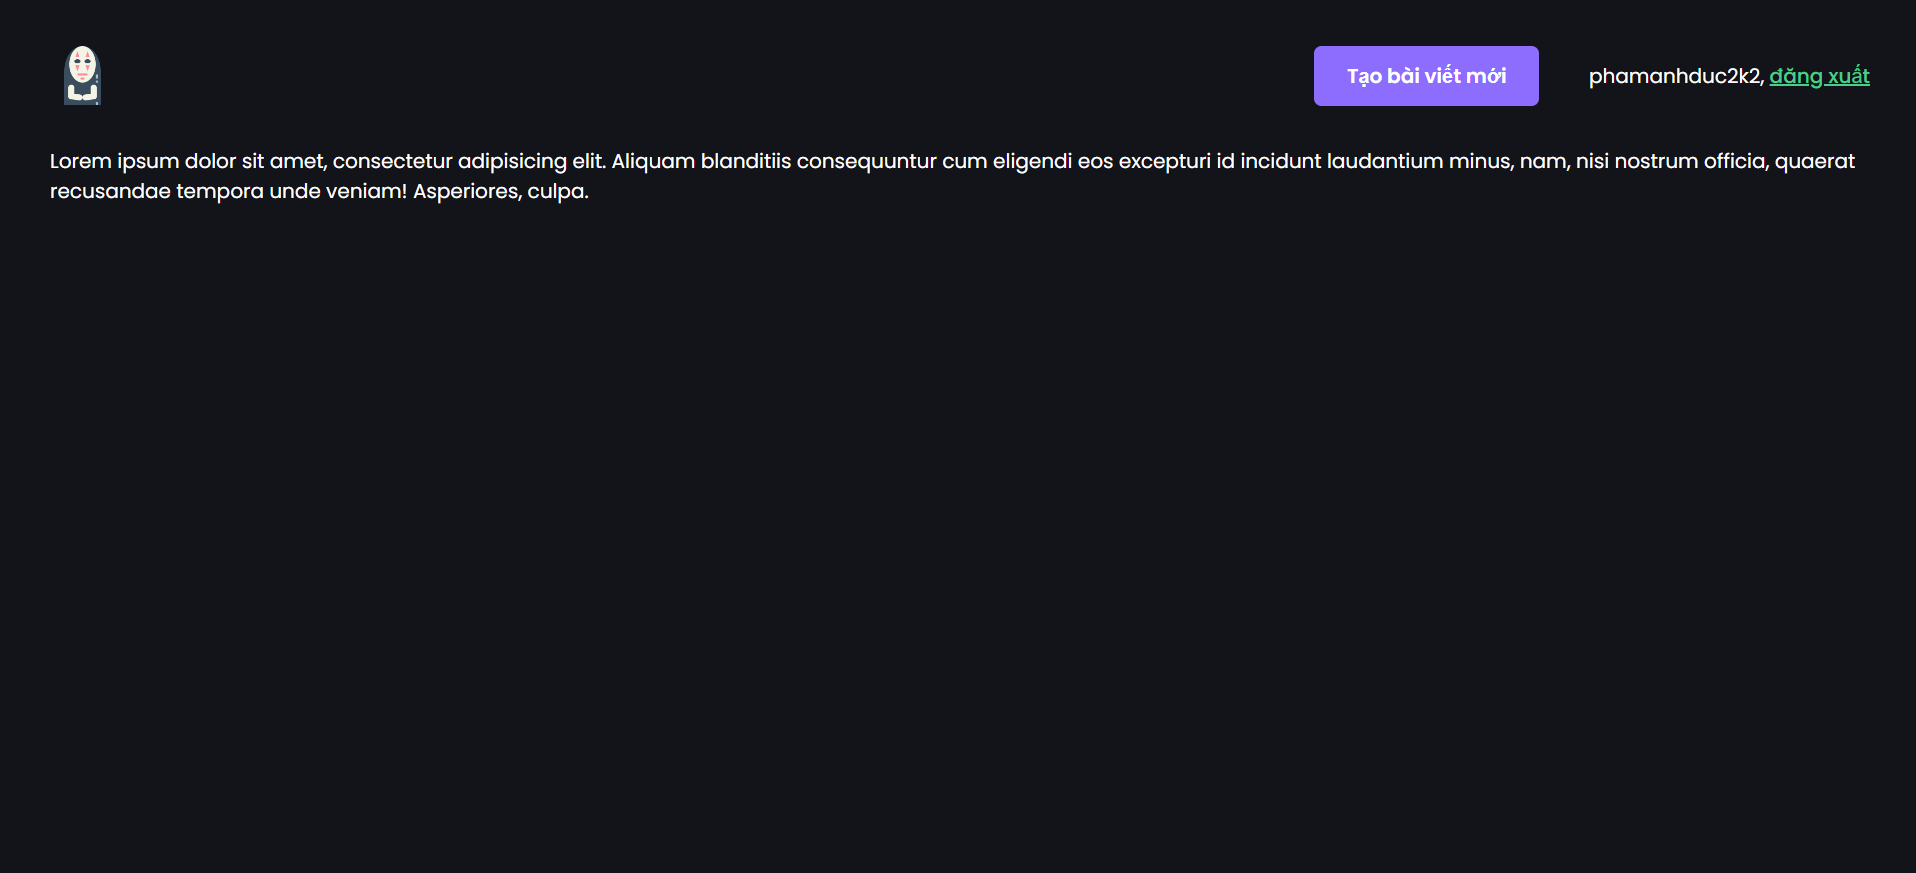
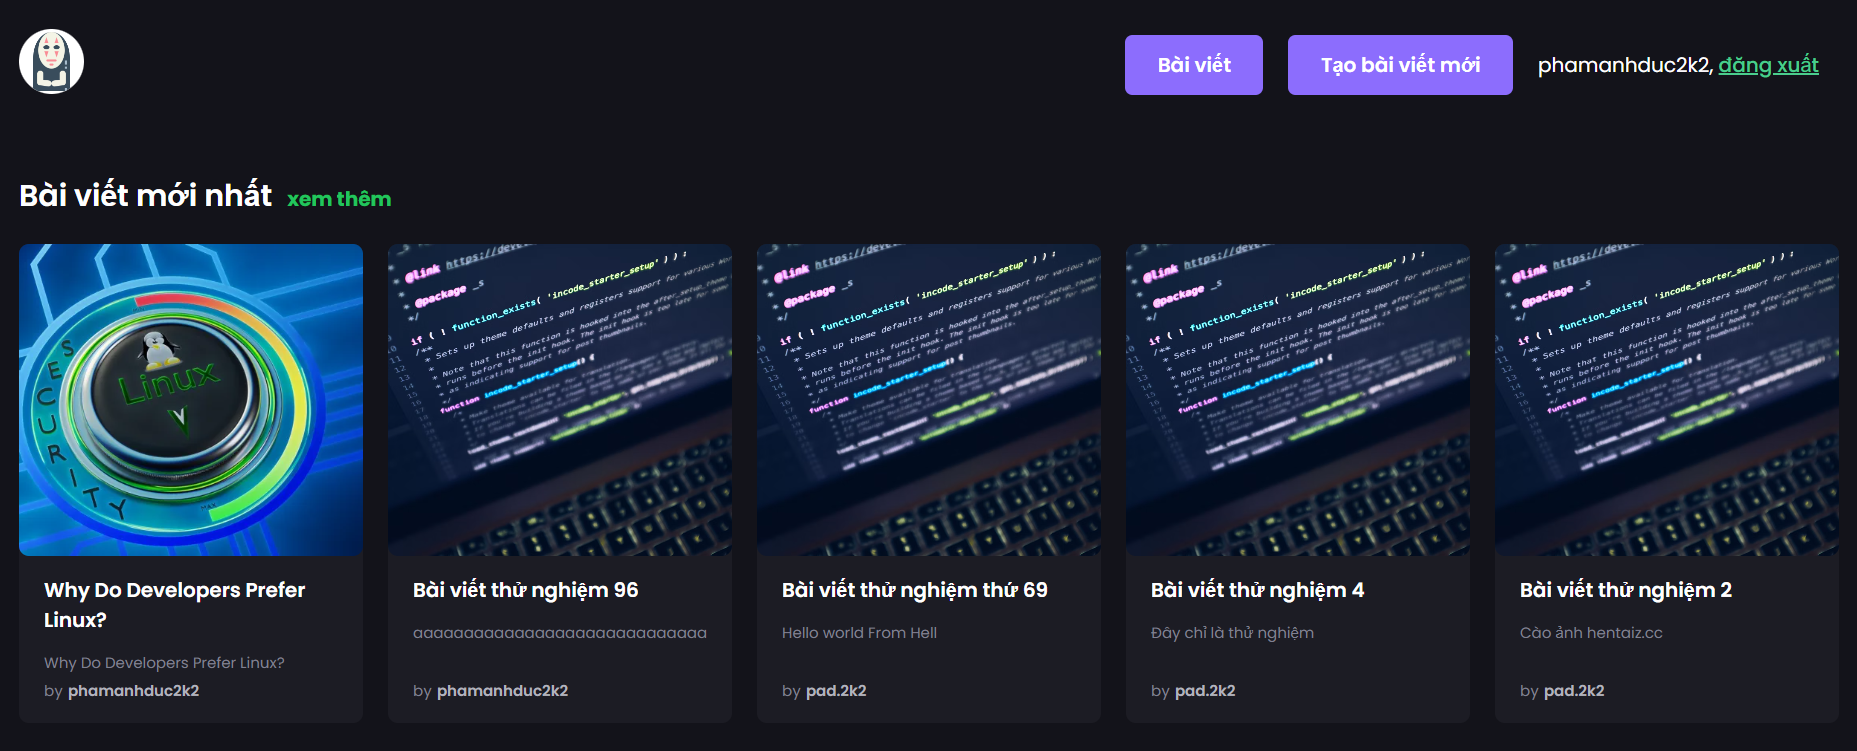
update homepage and post detail page

diff --git a/src/hooks/usePost.tsx b/src/hooks/usePost.tsx
@@ -3,6 +3,10 @@ import { IPost } from "../types/IPost";
 import { supabase } from "../supabase/supabase";
 import { toast } from "react-toastify";
 
+interface IExtentPost extends IPost {
+  user: { username: string };
+}
+
 export const useNewestPost = (): IPost[] | null => {
   const [posts, setPosts] = useState<IPost[] | null>([]);
   useEffect(() => {
@@ -11,7 +15,7 @@ export const useNewestPost = (): IPost[] | null => {
         .from("posts")
         .select(`*, user:users(username)`)
         .order("created_at", { ascending: false })
-        .limit(5);
+        .limit(10);
 
       if (error) {
         toast.error(error.message);
@@ -24,4 +28,30 @@ export const useNewestPost = (): IPost[] | null => {
   }, []);
 
   return posts;
+};
+
+export const useGetPostById = (id: string) => {
+  const [post, setPost] = useState<IExtentPost | null>(null);
+
+  useEffect(() => {
+    const getPostByID = async () => {
+      try {
+        const { data: post, error } = await supabase
+          .from<IExtentPost>("posts")
+          .select("*, user:users(username)")
+          .eq("slug", id)
+          .limit(1)
+          .single();
+        if (post) {
+          setPost(post);
+        }
+      } catch (e) {
+        console.log(e);
+      }
+    };
+
+    getPostByID();
+  }, []);
+
+  return post;
 };

diff --git a/src/pages/PostDetailPage.tsx b/src/pages/PostDetailPage.tsx
@@ -1,0 +1,35 @@
+import React, { useEffect, useState } from "react";
+import CommonLayout from "../components/layouts/CommonLayout";
+import parser from "html-react-parser";
+import { useParams } from "react-router-dom";
+import { supabase } from "../supabase/supabase";
+import { IPost } from "../types/IPost";
+import Container from "../components/layouts/Container";
+import { useGetPostById } from "../hooks/usePost";
+
+interface IExtentPost extends IPost {
+  user: { username: string };
+}
+
+const PostDetailPage = () => {
+  const { postID } = useParams<string>();
+  const post = useGetPostById(postID as string);
+
+  return (
+    <CommonLayout>
+      <Container>
+        <h1 className="font-semibold text-3xl mb-10">
+          {post?.title} by{" "}
+          <span className="font-bold !text-md text-purple-500">
+            {post?.user.username}
+          </span>
+        </h1>
+        <div className="content-box">
+          {parser(`${post?.content as string}`)}
+        </div>
+      </Container>
+    </CommonLayout>
+  );
+};
+
+export default PostDetailPage;

diff --git a/src/modules/Post/PostItem.tsx b/src/modules/Post/PostItem.tsx
@@ -11,7 +11,7 @@ interface IProps {
 
 const PostItem = ({ author, description, title, slug, thumbnail }: IProps) => {
   return (
-    <NavLink to={slug} className="block h-full select-none">
+    <NavLink to={slug} className="block h-full select-none shadow-2xl">
       <div className="bg-[#1C1C24] rounded-lg h-full flex flex-col">
         <div className="h-[250px] w-full rounded-lg overflow-hidden">
           <img
@@ -22,9 +22,9 @@ const PostItem = ({ author, description, title, slug, thumbnail }: IProps) => {
         </div>
         <div className="px-[20px] py-[15px] flex-1 flex flex-col">
           <div className="flex flex-col gap-y-2">
-            <h3 className="font-semibold text-[16px] truncate">{title}</h3>
+            <h3 className="font-semibold text-[16px] line-clamp-2">{title}</h3>
 
-            <p className="text-[12px] text-[#808191] mt-[5px] truncate">
+            <p className="text-[12px] text-[#808191] mt-[5px] line-clamp-1">
               {description}
             </p>
           </div>

diff --git a/src/index.scss b/src/index.scss
@@ -4,6 +4,12 @@
 @tailwind components;
 @tailwind utilities;
 
+*, *::after, *::before {
+  margin: 0;
+  padding: 0;
+  box-sizing: border-box;
+}
+
 html {
   font-family: 'Poppins', sans-serif;
 }
@@ -20,6 +26,11 @@ body {
   overflow-x: hidden;
 }
 
+a {
+  text-decoration: none;
+  color: inherit;
+}
+
 .swiper-slide {
   max-width: 300px;
   z-index: 1;
@@ -28,4 +39,43 @@ body {
 
 .slider .swiper-slide:last-child {
   margin-right: calc(100% - (100% / 3));
+}
+
+.content-box {
+  display: flex;
+  flex-direction: column;
+  gap: 20px 0;
+
+  h1 {
+    font-weight: bold;
+    font-size: 40px;
+  }
+
+  h2 {
+    font-weight: 600;
+    font-size: 25px;
+  }
+
+  h3 {
+    font-weight: 500;
+    font-size: 22px;
+  }
+
+  h4 {
+    font-size: 20px;
+    font-weight: 400;
+  }
+
+  p {
+    font-weight: 400;
+    font-size: 16px;
+    color: #A2A2A8;
+    line-height: 24px;
+    text-align: justify;
+  }
+
+  img {
+    max-width: 100%;
+    object-fit: cover;
+  }
 }

diff --git a/src/main.tsx b/src/main.tsx
@@ -15,6 +15,7 @@ const HomePage = lazy(() => import("./pages/HomePage"));
 const SignUpPage = lazy(() => import("./pages/SignUpPage"));
 const SignInPage = lazy(() => import("./pages/SignInPage"));
 const CreatePostPage = lazy(() => import("./pages/CreatePostPage"));
+const PostDetailPage = lazy(() => import("./pages/PostDetailPage"));
 
 ReactDOM.createRoot(document.getElementById("root")!).render(
   <>
@@ -32,6 +33,7 @@ ReactDOM.createRoot(document.getElementById("root")!).render(
                 </PrivateRouter>
               }
             />
+            <Route path={"/post/:postID"} element={<PostDetailPage />} />
             <Route path={"/signup"} element={<SignUpPage />} />
             <Route path={"/signin"} element={<SignInPage />} />
           </Routes>

diff --git a/src/utils/schema.tsx b/src/utils/schema.tsx
@@ -16,7 +16,7 @@ export const schemaCreatePost = yup.object({
     .string()
     .required("Tiêu đề không được để trống!")
     .min(3, "Tiêu đề phải dài hơn 3 kí tự")
-    .max(30, "Tiêu đề không được quá 30 kí tự"),
+    .max(255, "Tiêu đề không được quá 255 kí tự"),
   thumbnail: yup.string().required("Thumbnail không được để trống"),
   content: yup.string().min(5, "Nội dung phải dài hơn 5 kí tự!"),
   description: yup.string().required("Mô tả không được để trống!"),

diff --git a/src/pages/HomePage.tsx b/src/pages/HomePage.tsx
@@ -20,7 +20,7 @@ const HomePage = () => {
             </NavLink>
           </h2>
 
-          <div className="grid grid-cols-1 md:grid-cols-3 md:gap-x-5 lg:grid-cols-5 gap-y-5 lg:gap-x-5">
+          <div className="grid grid-cols-1 gap-5 md:grid-cols-3 md:grid-rows-2 md:gap-x-5 lg:grid-cols-4 lg:gap-y-10 lg:gap-x-10">
             {newestPost?.map((post) => (
               <PostItem
                 key={post.id}

diff --git a/src/components/layouts/Container.tsx b/src/components/layouts/Container.tsx
@@ -1,0 +1,13 @@
+import React, { ReactNode } from "react";
+
+interface IProps {
+  children: ReactNode;
+}
+
+const Container = ({ children }: IProps) => {
+  return (
+    <div className="max-w-[1024px] mx-auto pl-[20px] pr-[20px]">{children}</div>
+  );
+};
+
+export default Container;

diff --git a/tailwind.config.js b/tailwind.config.js
@@ -1,6 +1,9 @@
 module.exports = {
   darkMode: "class",
   content: ["./src/**/*.{js,jsx,ts,tsx}"],
+  // corePlugins: {
+  //   preflight: false,
+  // },
   theme: {
     extend: {},
   },
